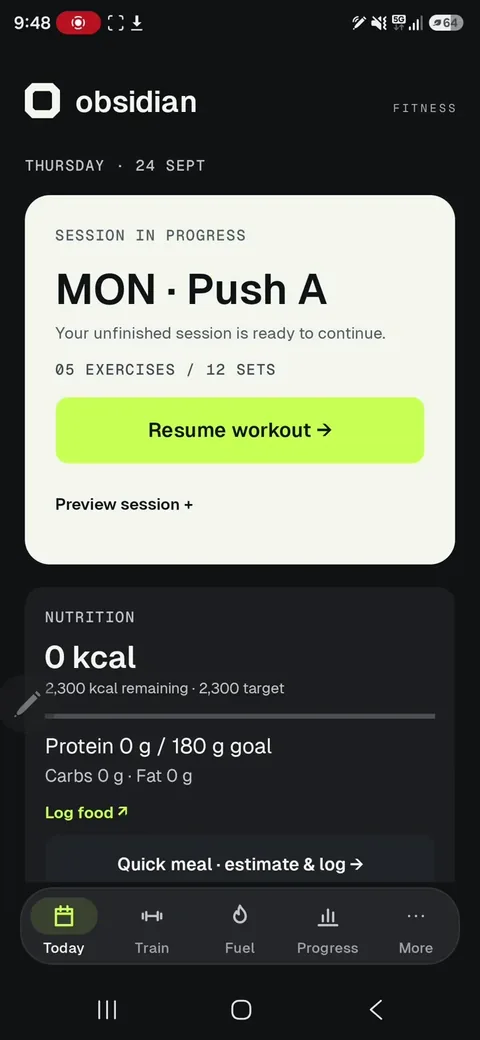
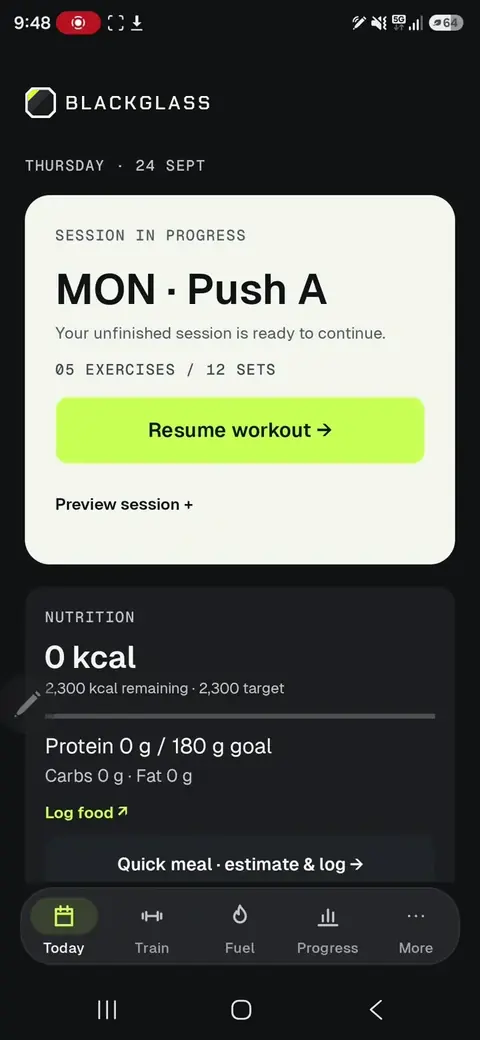
Remove remaining Obsidian references; fix header see-through on mobile
- Today screenshots (dashboard.webp and -480) now show the Blackglass lockup, drawn
  from the exact brand paths, in place of the app's old header name
- Removed the former-name setting and everything it drove: the home footnote, the
  /get install note and two FAQ answers
- Social kit: removed the "note on the name" post (P08) and the "formerly" caption
  line; docs no longer mention the old name
- Header background is now solid: the selected demo tab was showing through the
  94% background when scrolled underneath

Claude-Session: https://claude.ai/code/session_01C6RZ1uYA7tnDhFhXo2affF

Changed region(s): [[0.0312, 0.0615, 0.4375, 0.1231], [0.875, 0.0923, 0.9375, 0.1231]]

diff --git a/content/faq.ts b/content/faq.ts
@@ -20,10 +20,6 @@ export const homeFaq: Faq[] = [
     a: "It keeps your programme, today's session, movement guides and food targets together. You can see the week's plan, pick up a session where you left off, check how a lift should look phase by phase, and log food against a calorie and protein target.",
   },
   {
-    q: `Why do some screens say ${site.formerName}?`,
-    a: `Blackglass was previously called ${site.formerName} Fitness. The screens on this site come from the current Android build, and some still show the earlier name.`,
-  },
-  {
     q: "What will the app cost?",
     a: "Pricing hasn't been set. Joining the preview list is free and doesn't commit you to anything.",
   },
@@ -73,10 +69,6 @@ export const getFaqLive: Faq[] = [
     q: "Why does Android warn me about the APK?",
     a: "Android shows that warning for any app installed from outside the Play Store. The Blackglass APK is downloaded directly from blackglass.co.nz, and the SHA-256 checksum on this page lets you confirm the file is the one published here.",
   }]),
-  {
-    q: `Why does the app say ${site.formerName}?`,
-    a: `Blackglass was previously called ${site.formerName} Fitness, and some screens in the current build still show that name.`,
-  },
   {
     q: "Is there an iPhone version?",
     a: "No. Blackglass is Android only.",

diff --git a/app/get/page.tsx b/app/get/page.tsx
@@ -67,7 +67,7 @@ export default function Get() {
                       <li>Tap <strong>Download the APK</strong>. Your browser may warn that this type of file can harm your device; that warning appears for every app installed outside the Play Store. Choose <strong>Download anyway</strong> if you trust this site.</li>
                       <li>Open the downloaded file. If Android asks, allow your browser to <strong>install unknown apps</strong> (Settings → Apps → your browser → Install unknown apps).</li>
                       <li>Tap <strong>Install</strong>. Google Play Protect may scan the app first.</li>
-                      <li>Open Blackglass.{app.appShowsFormerName && ` The app currently shows its former name, ${site.formerName}, on some screens.`}</li>
+                      <li>Open Blackglass.</li>
                     </ol>
                     <p className="footnote">You can switch “install unknown apps” off again afterwards. Updates are installed the same way until Blackglass is on the Play Store.</p>
                   </>}

diff --git a/content/site.ts b/content/site.ts
@@ -5,7 +5,6 @@
 
 export const site = {
   name: "Blackglass",
-  formerName: "Obsidian",
   url: "https://blackglass.co.nz",
   locale: "en-NZ",
   tagline: "Train with intent.",
@@ -25,10 +24,8 @@ export type PlatformStatus = "available" | "preview" | "unavailable";
  * App availability. Only set a URL once it is live and checked.
  * - Android: set `playUrl` for a Play Store listing, or `apkUrl` (+ version, size, sha256) for a direct
  *   download. With neither set, /get offers the preview list instead of a download.
- * - `appShowsFormerName`: the installed app still displays "Obsidian". Set false once the app is rebranded.
  */
 export const app = {
-  appShowsFormerName: true,
   android: {
     status: "preview" as PlatformStatus,
     playUrl: null as string | null,

diff --git a/app/site.css b/app/site.css
@@ -85,7 +85,7 @@ h1, h2, h3 { margin: 0; font-weight: 800; text-wrap: balance; }
 .actions { display: flex; flex-wrap: wrap; align-items: center; gap: 12px 24px; margin-top: 36px; }
 
 /* Header */
-.hdr { position: sticky; top: 0; z-index: 50; display: flex; align-items: center; gap: 16px; height: 64px; padding: 0 var(--gutter); background: rgba(16, 17, 19, .94); border-bottom: 1px solid var(--line); }
+.hdr { position: sticky; top: 0; z-index: 50; display: flex; align-items: center; gap: 16px; height: 64px; padding: 0 var(--gutter); background: var(--ink); border-bottom: 1px solid var(--line); }
 .hdr-brand { display: block; margin-right: auto; }
 .hdr-brand img { height: 26px; width: auto; }
 .hdr-mark { display: none; }

diff --git a/app/page.tsx b/app/page.tsx
@@ -139,7 +139,7 @@ export default function Home() {
                 </div>
               ))}
             </div>
-            <p className="footnote">Real screens recorded on an Android phone. Programme and food figures are examples.{app.appShowsFormerName && ` Some screens still show the app’s former name, ${site.formerName}.`}</p>
+            <p className="footnote">Real screens recorded on an Android phone. Programme and food figures are examples.</p>
           </div>
         </section>
 

diff --git a/docs/SEO.md b/docs/SEO.md
@@ -33,7 +33,7 @@ No ranking is guaranteed. This follows Google Search Central guidance (people-fi
 
 | Intent | Page that answers it |
 |---|---|
-| "blackglass app", "blackglass fitness", "obsidian fitness app" (brand and former name) | Home (the FAQ explains the rename), /get |
+| "blackglass app", "blackglass fitness" (brand) | Home, /get |
 | "strength training app android", "workout planner app", "gym programme app" | Home (demo) → /get. Honest availability matters more than ranking here. |
 | "strength coaching dunedin", "personal training dunedin", "physique coaching nz" | /coaching (Dunedin-based offer, stated price) |
 | "push pull legs 6 day split", "ab wheel rollout form" (informational) | Backlog below. Only publish with Josh's review. |
@@ -44,11 +44,10 @@ New Zealand and Dunedin wording is used only where the offer is local: coaching,
 
 Each item comes from a real screen or question. Write it in Josh's voice, and have him check any training advice.
 
-1. **"Obsidian Fitness is now Blackglass."** A short, factual rename note for people searching the old name.
-2. **"How Blackglass structures a training week."** Blocks (week 1 of 6, build phase), days with a job, and sessions with a set count, using the real screens.
-3. **Exercise guide pages**, starting with the ab wheel rollout (brace, reach, return), each mirroring the in-app guide. This needs Josh's coaching cues and a clear note that it isn't medical advice.
-4. **"What coaching with Josh looks like, week by week"**, expanding the three steps with real (anonymised, consented) examples once clients agree.
-5. **"Getting the Android preview"**: what to expect from the first build, and install help. Publish when a build exists.
-6. **Josh's background and qualifications**, only once they've been supplied and can be verified.
+1. **"How Blackglass structures a training week."** Blocks (week 1 of 6, build phase), days with a job, and sessions with a set count, using the real screens.
+2. **Exercise guide pages**, starting with the ab wheel rollout (brace, reach, return), each mirroring the in-app guide. This needs Josh's coaching cues and a clear note that it isn't medical advice.
+3. **"What coaching with Josh looks like, week by week"**, expanding the three steps with real (anonymised, consented) examples once clients agree.
+4. **"Getting the Android preview"**: what to expect from the first build, and install help. Publish when a build exists.
+5. **Josh's background and qualifications**, only once they've been supplied and can be verified.
 
 Avoid thin city or keyword variants, AI-written filler, and unsupported fitness claims.

diff --git a/social/KIT.md b/social/KIT.md
@@ -42,7 +42,7 @@ Pin **P01** on Instagram (with P02 as the second pin once posted) and **V1** on 
 
 ---
 
-## The nine posts
+## The eight posts
 
 ### P01 · Brand introduction (pinned)
 - **Artwork:** `exports/posts/p01-intro.png`
@@ -54,7 +54,7 @@ Pin **P01** on Instagram (with P02 as the second pin once posted) and **V1** on 
   >
   > Built in Dunedin. The app is in development and not publicly available yet. Join the free preview list to hear first when there's a build you can try.
   >
-  > Link in bio. (Formerly Obsidian Fitness.)
+  > Link in bio.
 - **CTA:** Join the preview list · **Destination:** bio → `/links` → `/get`
 - **Alt text:** The Blackglass logo, a chamfered octagon of black glass with a bright green highlight in its top-left corner, above the words "Train with intent." and a line explaining that Blackglass is a training app built in Dunedin.
 
@@ -147,18 +147,6 @@ Pin **P01** on Instagram (with P02 as the second pin once posted) and **V1** on 
 - **CTA:** Join the preview list · **Destination:** bio → `/get`
 - **Alt text:** The headline "Keep food in the picture." beside the app's nutrition panel showing a calorie target, a 180 g protein goal and a quick meal button.
 
-### P08 · A note on the name
-- **Artwork:** `exports/posts/p08-formerly.png`
-- **Hook:** Obsidian → Blackglass.
-- **Caption:**
-  > Same app, new name.
-  >
-  > Blackglass was previously called Obsidian Fitness. You'll still see the earlier name on some screens in the current Android build.
-  >
-  > Everything on blackglass.co.nz is the same project. Link in bio.
-- **CTA:** Visit blackglass.co.nz · **Destination:** bio → `/links`
-- **Alt text:** The word "Obsidian" struck through above "Now Blackglass.", with a strip of the app's Today screen that still shows the Obsidian logo.
-
 ### P09 · Getting started
 - **Artwork:** `exports/posts/p09-start.png`
 - **Hook:** How to get Blackglass.
@@ -250,7 +238,7 @@ The calmer first cut (24 s, a slow glass-and-light piece) is kept as `teaser.mjs
 | 4 (Thu) | Reel: **V2** | **V2** | Product in motion |
 | 5 (Fri) | **P03** walk in with a plan | | First benefit |
 | 6 (Sat) | | | |
-| 7 (Sun) | **P08** a note on the name | | Answer "is this Obsidian?" early |
+| 7 (Sun) | | | |
 | 8 (Mon) | **P04** brace, reach, return | | Demonstration |
 | 9 (Tue) | Reel: **V3** | **V3** | Demonstration in motion |
 | 10 (Wed) | **P05** tip: resume | | Practical tip |

diff --git a/docs/MAINTAINING.md b/docs/MAINTAINING.md
@@ -27,7 +27,9 @@ The short version: **settings live in `content/`, pages in `app/`, styles in `ap
    - **APK:** set `app.android.apkUrl`, `apkVersion`, `apkSize`, `apkSha256` (from `sha256sum file.apk`) and `minAndroid`.
 2. Set `app.android.status` to `"available"`.
 
-That's all. /get switches from the preview list to a download with install steps, and the home steps, FAQ and link-in-bio follow. When the app no longer shows "Obsidian", set `app.appShowsFormerName` to `false`.
+That's all. /get switches from the preview list to a download with install steps, and the home steps, FAQ and link-in-bio follow.
+
+**App name in screenshots:** the Today screen in `public/assets/dashboard*.webp` has the Blackglass lockup in place of the app's old header name. The Android build still shows the old name, so rename the app before sending preview builds out.
 
 Then email the preview list (the owner inbox at `/admin`, route "ANDROID PREVIEW LIST") and update the "preview list" captions in `social/KIT.md`.
 

diff --git a/docs/DIRECTION.md b/docs/DIRECTION.md
@@ -6,7 +6,7 @@
   - **Today:** session in progress, Resume workout, Preview session, calorie and protein targets, Log food, and "Quick meal · estimate & log".
   - **Train:** the active programme ("Week 1 of 6 · Build"), a six-day split, and Plan, Library, Build, Generate and Forge tabs.
   - **Exercise guide:** animated movement with phases (Brace, Reach, Return), Muscles and My record tabs, and Add to my program.
-  - Navigation: Today, Train, Fuel, Progress, More. The app still shows "obsidian FITNESS".
+  - Navigation: Today, Train, Fuel, Progress, More.
 - **Coaching:** 12 weeks with Josh, based in Dunedin; founding price NZ$59 a week (NZ$708). Enquiries are saved to the site database and read at `/admin`.
 - **Not verified, so not claimed:** what Progress, Generate or Forge do; app pricing; testimonials, results, user numbers or qualifications; social accounts; analytics.
 
